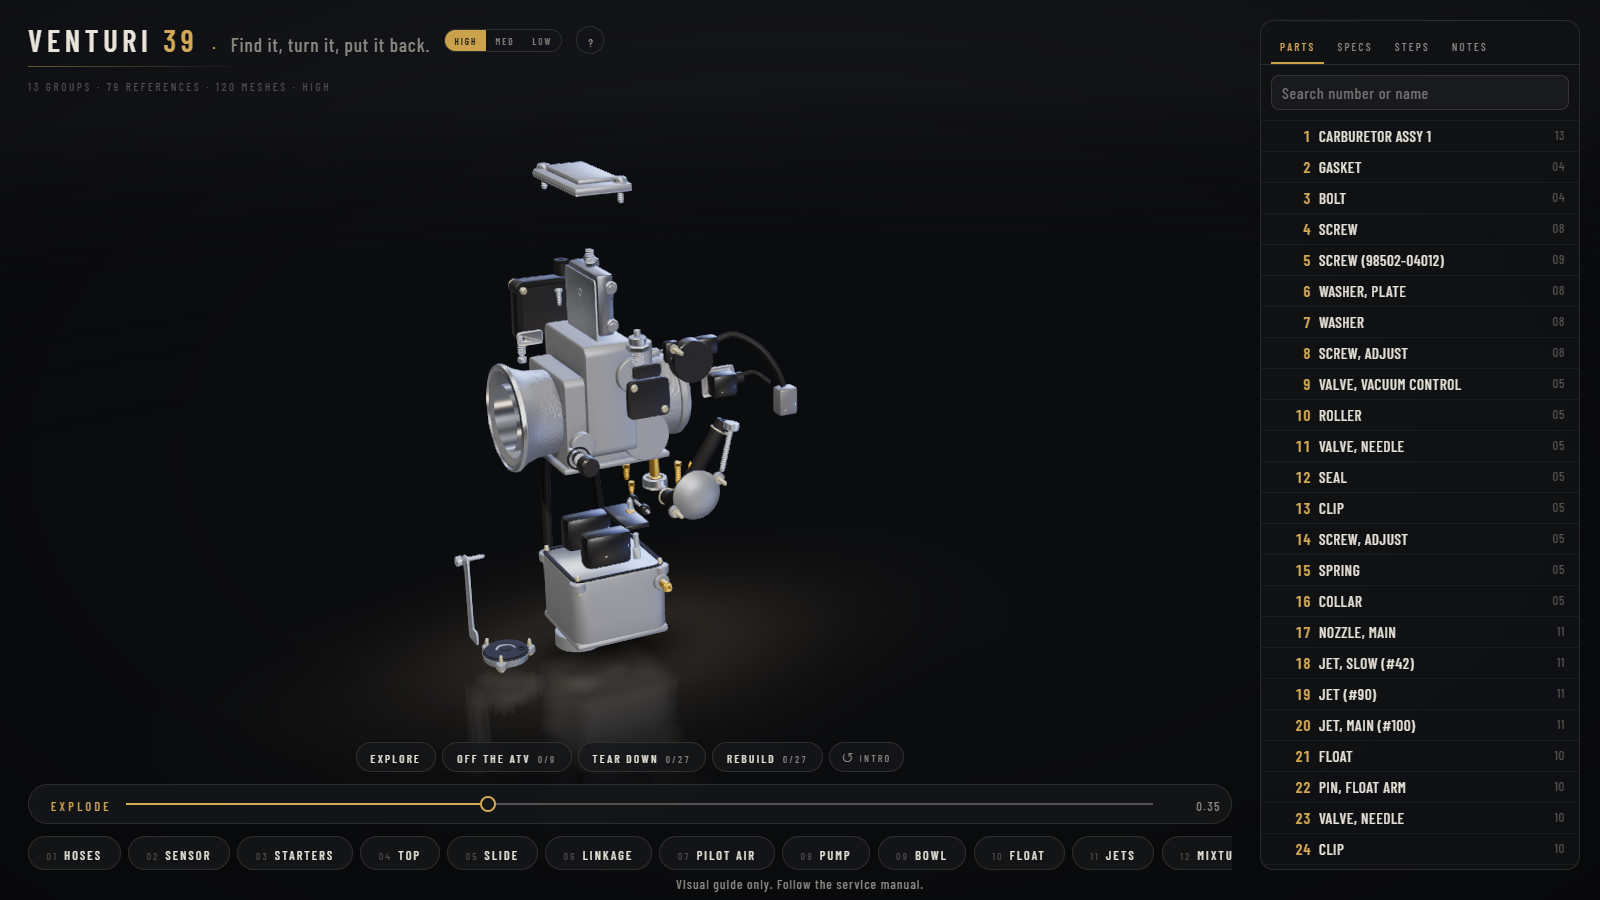
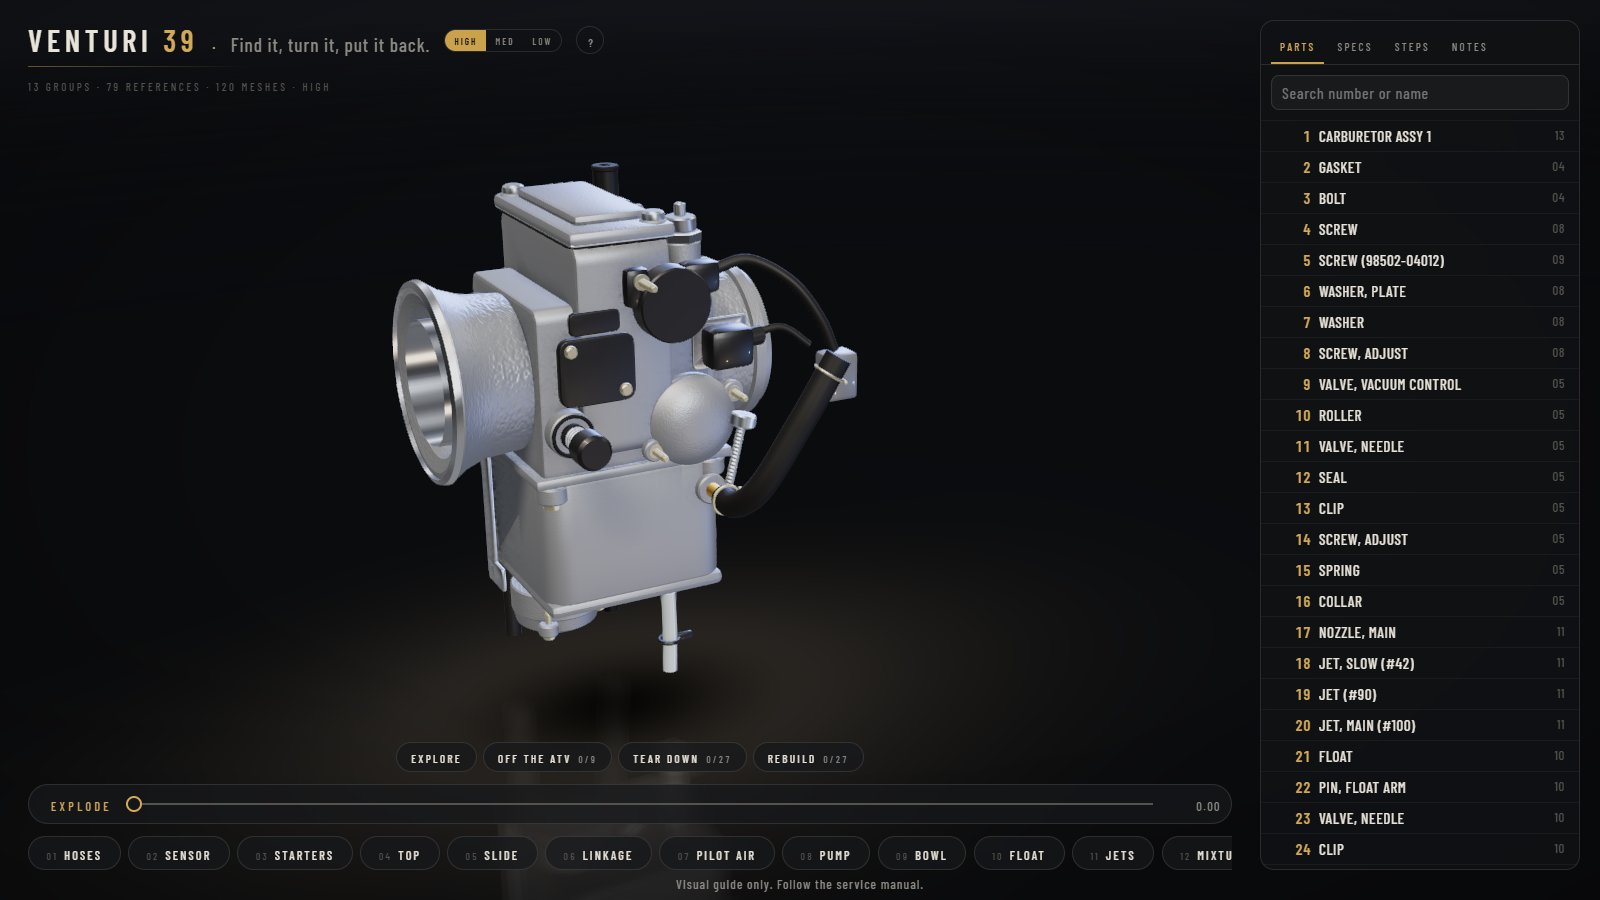
README, ? card and hero: no ATV or intro, controls updated; docs/hero.png retaken at 1600x900 of the assembled carburetor

Changed region(s): [[0.2188, 0.1556, 0.5625, 0.9022], [0.3125, 0.9022, 0.4375, 1.0], [0.0625, 0.8711, 0.0938, 0.9022]]

diff --git a/README.md b/README.md
@@ -2,23 +2,23 @@
 
 **Live:** https://simsi2027.github.io/venturi/
 
-[![VENTURI 39: the carburetor part-exploded, with the parts panel](docs/hero.png)](https://simsi2027.github.io/venturi/)
+[![VENTURI 39: the assembled carburetor with the parts panel](docs/hero.png)](https://simsi2027.github.io/venturi/)
 
-An interactive three.js guide to a Keihin flat-slide carburetor with accelerator pump (the one on a 2004 sport
-ATV, I.D. mark 5TG1 00), built entirely in code. Every one of the 79 parts-diagram references is a clickable part:
+An interactive three.js guide to a Keihin flat-slide carburetor with accelerator pump (the one on a 2004
+YFZ450, I.D. mark 5TG1 00), built entirely in code. Every one of the 79 parts-diagram references is a clickable part:
 find it, see where it sits, and follow the order it comes off and goes back.
 
 ## Controls
 
-- **Drag** to orbit, **wheel / pinch** to zoom. Idle, the view sways gently.
+- **Drag** to orbit, **wheel / pinch** to zoom. The page opens on the assembled carburetor; idle, the view sways gently.
 - **EXPLODE** slider: the 13 groups come apart in the service manual's order, then each group's parts.
 - **Group pills (01-13)**: fly to a group; the rest dim.
-- **Hover** a part for its name; **click** it to bring it forward and **drag** to spin it. Esc or click away puts it back.
+- **Hover** a part for its name; **click** it to bring it forward (the rest fades to 10%), **drag** to turn it a full 360 degrees on both axes and use the **wheel** to zoom it. Esc or click away puts it back.
 - **Parts** panel: search all 79 references by number or name; **Specs** lists the specifications; **Steps** lists the
   current guided mode; **Notes** keeps your own numbers (pilot screw turns, jets found) in this browser.
-- **Off the ATV / Tear down / Rebuild**: guided steps with **Back / Next** (or the arrow keys), the camera on the
-  current part, a one-line note, brass callouts on the rebuild and a checkbox per step, saved in this browser.
-- **Intro**: 7 s from the whole ATV down to the carburetor; **Skip intro** or Esc, **↺ Intro** replays it.
+- **Off the ATV / Tear down / Rebuild**: guided steps with **Back / Next / Done** (or the arrow keys), the camera on the
+  current part, a one-line note, brass callouts on the rebuild and a checkbox per step, saved in this browser. Off the ATV
+  (9 steps) outlines in brass the carburetor part each step names; tear down and rebuild have 27 steps each.
 - **?** (button or key) shows these controls on the page.
 - **High / Med / Low** sets the render quality; `?perf=1` shows a performance overlay.
 
